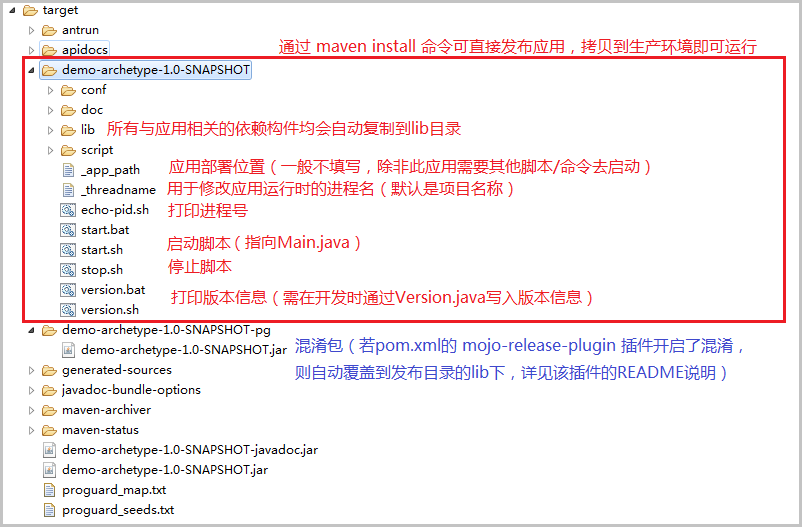
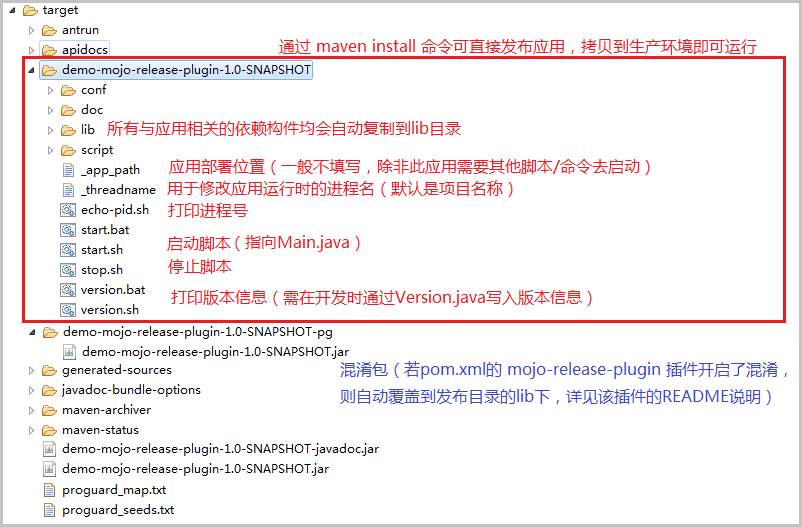
更新README

Changed region(s): [[0.0312, 0.6072, 0.9663, 0.7894], [0.0623, 0.8197, 0.4676, 0.9108], [0.1247, 0.1214, 0.4052, 0.1518]]

diff --git a/README.md b/README.md
@@ -90,9 +90,9 @@ Maven项目发布插件
 
 ## 运行效果
 
-> 点击 [这里](https://github-production-release-asset-2e65be.s3.amazonaws.com/148517307/80c29100-d2d2-11e8-88aa-212965139563?X-Amz-Algorithm=AWS4-HMAC-SHA256&X-Amz-Credential=AKIAIWNJYAX4CSVEH53A%2F20181018%2Fus-east-1%2Fs3%2Faws4_request&X-Amz-Date=20181018T071253Z&X-Amz-Expires=300&X-Amz-Signature=65f0ae903b69ba30b4a20d7530a66975bc7ef32db62958485a930f2308292e8d&X-Amz-SignedHeaders=host&actor_id=17040287&response-content-disposition=attachment%3B%20filename%3Ddemo-archetype.zip&response-content-type=application%2Foctet-stream) 下载演示项目`demo-archetype`
+> 点击 [这里](https://github-production-release-asset-2e65be.s3.amazonaws.com/148517007/597abc80-d2f0-11e8-9f44-732ddf618304?X-Amz-Algorithm=AWS4-HMAC-SHA256&X-Amz-Credential=AKIAIWNJYAX4CSVEH53A%2F20181018%2Fus-east-1%2Fs3%2Faws4_request&X-Amz-Date=20181018T081233Z&X-Amz-Expires=300&X-Amz-Signature=982daecdf1876e8bdb7490f13137d13dee5414ed02c22c31cde7776f28fedafd&X-Amz-SignedHeaders=host&actor_id=17040287&response-content-disposition=attachment%3B%20filename%3Ddemo-mojo-release-plugin.zip&response-content-type=application%2Foctet-stream) 下载演示项目`demo-mojo-release-plugin`
 
-　此处以演示项目`demo-archetype`为例查看本插件的运行效果。
+　此处以演示项目`demo-mojo-release-plugin`为例查看本插件的运行效果。
 
 <br/>　**发布应用后的应用结构：**
 
@@ -103,19 +103,19 @@ Maven项目发布插件
 - win环境启动脚本 start.bat ：<br/>
 ```shell
 @echo off
-title demo-archetype
+title demo-mojo-release-plugin
 
 set /p threadname=<.\_threadname
 set lib0=.\lib
 
-java -Dtn=%threadname% -Xms32m -Xmx64m  -cp %lib0%\demo-archetype.jar;%lib0%\exp-libs.jar;%lib0%\jvm-agent-1.0.jar;%lib0%\jep-3.3.1.jar;%lib0%\ehcache-2.9.1.jar;%lib0%\beauty-eye-3.7.jar;%lib0%\draw2d-1.0.0.jar;%lib0%\jGraph-1.0.0.jar;%lib0%\schemaeditor-1.0.0.jar;%lib0%\javase-2.2.jar;%lib0%\core-2.2.jar;%lib0%\dom4j-1.6.1.jar;%lib0%\javaini-1.1.0.0.jar;%lib0%\proxool-0.9.1.jar;%lib0%\proxool-cglib-0.9.1.jar;%lib0%\jedis-2.9.0.jar;%lib0%\commons-pool2-2.4.2.jar;%lib0%\mysql-connector-java-5.1.29.jar;%lib0%\sqlite-jdbc-3.7.2.jar;%lib0%\ojdbc-14.jar;%lib0%\poi-ooxml-3.9.jar;%lib0%\poi-3.9.jar;%lib0%\poi-ooxml-schemas-3.9.jar;%lib0%\dom4j-1.6.1.jar;%lib0%\quartz-2.2.1.jar;%lib0%\c3p0-0.9.1.1.jar;%lib0%\json-lib-2.4-jdk15.jar;%lib0%\commons-beanutils-1.8.0.jar;%lib0%\commons-collections-3.2.1.jar;%lib0%\commons-lang-2.5.jar;%lib0%\ezmorph-1.0.6.jar;%lib0%\jackson-xc-1.9.9.jar;%lib0%\jackson-core-asl-1.9.9.jar;%lib0%\jackson-mapper-asl-1.9.9.jar;%lib0%\jackson-smile-1.9.9.jar;%lib0%\jackson-mrbean-1.9.9.jar;%lib0%\jackson-jaxrs-1.9.9.jar;%lib0%\jackson-core-lgpl-1.9.9.jar;%lib0%\jackson-mapper-lgpl-1.9.9.jar;%lib0%\commons-httpclient-3.1-rc1.jar;%lib0%\commons-net-3.3.jar;%lib0%\bcprov-jdk15on-1.54.jar;%lib0%\base64-1.0.jar;%lib0%\jsch-0.1.29.jar;%lib0%\mail-1.4.1.jar;%lib0%\activation-1.1.1.jar;%lib0%\activemq-all-5.4.2.jar;%lib0%\commons-compress-1.8.1.jar;%lib0%\commons-dbutils-1.5.jar;%lib0%\commons-io-2.4.jar;%lib0%\commons-logging-1.1.3.jar;%lib0%\commons-lang3-3.3.jar;%lib0%\jai-imageio-1.1-alpha-alpha.jar;%lib0%\tensorflow-1.6.0-rc1.jar;%lib0%\libtensorflow-1.6.0-rc1.jar;%lib0%\libtensorflow_jni-1.6.0-rc1.jar;%lib0%\Java-WebSocket-1.3.4.jar;%lib0%\selenium-java-2.53.0.jar;%lib0%\selenium-support-2.53.0.jar;%lib0%\selenium-leg-rc-2.53.0.jar;%lib0%\phantomjsdriver-1.2.1.jar;%lib0%\selenium-remote-driver-2.44.0.jar;%lib0%\cglib-nodep-2.1_3.jar;%lib0%\gson-2.3.jar;%lib0%\selenium-api-2.44.0.jar;%lib0%\guava-18.0.jar;%lib0%\commons-exec-1.1.jar;%lib0%\jna-3.4.0.jar;%lib0%\platform-3.4.0.jar;%lib0%\selenium-chrome-driver-2.44.0.jar;%lib0%\selenium-htmlunit-driver-2.44.0.jar;%lib0%\htmlunit-2.15.jar;%lib0%\xalan-2.7.1.jar;%lib0%\serializer-2.7.1.jar;%lib0%\httpmime-4.3.3.jar;%lib0%\htmlunit-core-js-2.15.jar;%lib0%\xercesImpl-2.11.0.jar;%lib0%\xml-apis-1.4.01.jar;%lib0%\nekohtml-1.9.21.jar;%lib0%\cssparser-0.9.14.jar;%lib0%\sac-1.3.jar;%lib0%\jetty-websocket-8.1.15.v20140411.jar;%lib0%\jetty-util-8.1.15.v20140411.jar;%lib0%\jetty-io-8.1.15.v20140411.jar;%lib0%\httpclient-4.3.4.jar;%lib0%\wsdl4j-1.6.2.jar;%lib0%\jabref-2.9.2.jar;%lib0%\soapui-1.7.1.jar;%lib0%\xmlbeans-2.6.0.jar;%lib0%\stax-api-1.0.1.jar;%lib0%\soapui-xmlbeans-1.7.jar;%lib0%\commons-codec-1.8.jar;%lib0%\log4j-1.2.17.jar;%lib0%\axis2-adb-1.6.2.jar;%lib0%\axis2-kernel-1.6.2.jar;%lib0%\axiom-api-1.2.13.jar;%lib0%\wsdl4j-1.6.2.jar;%lib0%\neethi-3.0.2.jar;%lib0%\xmlschema-core-2.1.0.jar;%lib0%\axis2-transport-http-1.6.2.jar;%lib0%\httpcore-4.0.jar;%lib0%\axis2-transport-local-1.6.2.jar;%lib0%\cxf-rt-frontend-jaxws-3.0.1.jar;%lib0%\asm-3.3.1.jar;%lib0%\cxf-core-3.0.1.jar;%lib0%\woodstox-core-asl-4.4.0.jar;%lib0%\stax2-api-3.1.4.jar;%lib0%\cxf-rt-bindings-soap-3.0.1.jar;%lib0%\cxf-rt-wsdl-3.0.1.jar;%lib0%\cxf-rt-databinding-jaxb-3.0.1.jar;%lib0%\jaxb-core-2.1.14.jar;%lib0%\cxf-rt-frontend-simple-3.0.1.jar;%lib0%\cxf-rt-transports-http-3.0.1.jar;%lib0%\jetty-http-8.1.15.v20140411.jar;%lib0%\slf4j-api-1.7.5.jar;%lib0%\logback-core-1.0.13.jar;%lib0%\logback-classic-1.0.13.jar;%lib0%\logback-access-1.0.13.jar;%lib0%\janino-2.7.8.jar;%lib0%\commons-compiler-2.7.8.jar; exp.libs.pojo.Main   2>err.log
+java -Dtn=%threadname% -Xms32m -Xmx64m  -cp %lib0%\demo-mojo-release-plugin.jar;%lib0%\exp-libs-simple.jar;%lib0%\exp-libs.jar;%lib0%\beauty-eye-3.7.jar;%lib0%\javase-2.2.jar;%lib0%\core-2.2.jar;%lib0%\dom4j-1.6.1.jar;%lib0%\javaini-1.1.0.0.jar;%lib0%\proxool-0.9.1.jar;%lib0%\proxool-cglib-0.9.1.jar;%lib0%\sqlite-jdbc-3.7.2.jar;%lib0%\poi-ooxml-3.9.jar;%lib0%\poi-3.9.jar;%lib0%\poi-ooxml-schemas-3.9.jar;%lib0%\dom4j-1.6.1.jar;%lib0%\json-lib-2.4-jdk15.jar;%lib0%\commons-beanutils-1.8.0.jar;%lib0%\commons-collections-3.2.1.jar;%lib0%\commons-lang-2.5.jar;%lib0%\ezmorph-1.0.6.jar;%lib0%\jackson-xc-1.9.9.jar;%lib0%\jackson-core-asl-1.9.9.jar;%lib0%\jackson-mapper-asl-1.9.9.jar;%lib0%\jackson-smile-1.9.9.jar;%lib0%\jackson-mrbean-1.9.9.jar;%lib0%\jackson-jaxrs-1.9.9.jar;%lib0%\jackson-core-lgpl-1.9.9.jar;%lib0%\jackson-mapper-lgpl-1.9.9.jar;%lib0%\commons-httpclient-3.1-rc1.jar;%lib0%\commons-net-3.3.jar;%lib0%\bcprov-jdk15on-1.54.jar;%lib0%\base64-1.0.jar;%lib0%\commons-compress-1.8.1.jar;%lib0%\commons-dbutils-1.5.jar;%lib0%\commons-io-2.4.jar;%lib0%\commons-logging-1.1.3.jar;%lib0%\commons-lang3-3.3.jar;%lib0%\xmlbeans-2.6.0.jar;%lib0%\stax-api-1.0.1.jar;%lib0%\commons-codec-1.8.jar;%lib0%\log4j-1.2.17.jar;%lib0%\slf4j-api-1.7.5.jar;%lib0%\logback-core-1.0.13.jar;%lib0%\logback-classic-1.0.13.jar;%lib0%\logback-access-1.0.13.jar; exp.libs.pojo.Main   2>err.log
 pause
 ```
 
 - unix环境启动脚本 start.sh ：<br/>
 ```shell
 #!/bin/bash
-# demo-archetype
+# demo-mojo-release-plugin
 
 export app_path=$(cat ./_app_path|grep -v ^#)
 if [ $app_path ];then
@@ -127,7 +127,7 @@ export lib0=./lib
 
 PID=`ps -ef|grep Dtn=${threadname}|grep -v grep|awk '{print $2}'`
 if [ -z $PID ];then
-    java -Dtn=${threadname} -Xms32m -Xmx64m  -cp $lib0/demo-archetype.jar:$lib0/exp-libs.jar:$lib0/jvm-agent-1.0.jar:$lib0/jep-3.3.1.jar:$lib0/ehcache-2.9.1.jar:$lib0/beauty-eye-3.7.jar:$lib0/draw2d-1.0.0.jar:$lib0/jGraph-1.0.0.jar:$lib0/schemaeditor-1.0.0.jar:$lib0/javase-2.2.jar:$lib0/core-2.2.jar:$lib0/dom4j-1.6.1.jar:$lib0/javaini-1.1.0.0.jar:$lib0/proxool-0.9.1.jar:$lib0/proxool-cglib-0.9.1.jar:$lib0/jedis-2.9.0.jar:$lib0/commons-pool2-2.4.2.jar:$lib0/mysql-connector-java-5.1.29.jar:$lib0/sqlite-jdbc-3.7.2.jar:$lib0/ojdbc-14.jar:$lib0/poi-ooxml-3.9.jar:$lib0/poi-3.9.jar:$lib0/poi-ooxml-schemas-3.9.jar:$lib0/dom4j-1.6.1.jar:$lib0/quartz-2.2.1.jar:$lib0/c3p0-0.9.1.1.jar:$lib0/json-lib-2.4-jdk15.jar:$lib0/commons-beanutils-1.8.0.jar:$lib0/commons-collections-3.2.1.jar:$lib0/commons-lang-2.5.jar:$lib0/ezmorph-1.0.6.jar:$lib0/jackson-xc-1.9.9.jar:$lib0/jackson-core-asl-1.9.9.jar:$lib0/jackson-mapper-asl-1.9.9.jar:$lib0/jackson-smile-1.9.9.jar:$lib0/jackson-mrbean-1.9.9.jar:$lib0/jackson-jaxrs-1.9.9.jar:$lib0/jackson-core-lgpl-1.9.9.jar:$lib0/jackson-mapper-lgpl-1.9.9.jar:$lib0/commons-httpclient-3.1-rc1.jar:$lib0/commons-net-3.3.jar:$lib0/bcprov-jdk15on-1.54.jar:$lib0/base64-1.0.jar:$lib0/jsch-0.1.29.jar:$lib0/mail-1.4.1.jar:$lib0/activation-1.1.1.jar:$lib0/activemq-all-5.4.2.jar:$lib0/commons-compress-1.8.1.jar:$lib0/commons-dbutils-1.5.jar:$lib0/commons-io-2.4.jar:$lib0/commons-logging-1.1.3.jar:$lib0/commons-lang3-3.3.jar:$lib0/jai-imageio-1.1-alpha-alpha.jar:$lib0/tensorflow-1.6.0-rc1.jar:$lib0/libtensorflow-1.6.0-rc1.jar:$lib0/libtensorflow_jni-1.6.0-rc1.jar:$lib0/Java-WebSocket-1.3.4.jar:$lib0/selenium-java-2.53.0.jar:$lib0/selenium-support-2.53.0.jar:$lib0/selenium-leg-rc-2.53.0.jar:$lib0/phantomjsdriver-1.2.1.jar:$lib0/selenium-remote-driver-2.44.0.jar:$lib0/cglib-nodep-2.1_3.jar:$lib0/gson-2.3.jar:$lib0/selenium-api-2.44.0.jar:$lib0/guava-18.0.jar:$lib0/commons-exec-1.1.jar:$lib0/jna-3.4.0.jar:$lib0/platform-3.4.0.jar:$lib0/selenium-chrome-driver-2.44.0.jar:$lib0/selenium-htmlunit-driver-2.44.0.jar:$lib0/htmlunit-2.15.jar:$lib0/xalan-2.7.1.jar:$lib0/serializer-2.7.1.jar:$lib0/httpmime-4.3.3.jar:$lib0/htmlunit-core-js-2.15.jar:$lib0/xercesImpl-2.11.0.jar:$lib0/xml-apis-1.4.01.jar:$lib0/nekohtml-1.9.21.jar:$lib0/cssparser-0.9.14.jar:$lib0/sac-1.3.jar:$lib0/jetty-websocket-8.1.15.v20140411.jar:$lib0/jetty-util-8.1.15.v20140411.jar:$lib0/jetty-io-8.1.15.v20140411.jar:$lib0/httpclient-4.3.4.jar:$lib0/wsdl4j-1.6.2.jar:$lib0/jabref-2.9.2.jar:$lib0/soapui-1.7.1.jar:$lib0/xmlbeans-2.6.0.jar:$lib0/stax-api-1.0.1.jar:$lib0/soapui-xmlbeans-1.7.jar:$lib0/commons-codec-1.8.jar:$lib0/log4j-1.2.17.jar:$lib0/axis2-adb-1.6.2.jar:$lib0/axis2-kernel-1.6.2.jar:$lib0/axiom-api-1.2.13.jar:$lib0/wsdl4j-1.6.2.jar:$lib0/neethi-3.0.2.jar:$lib0/xmlschema-core-2.1.0.jar:$lib0/axis2-transport-http-1.6.2.jar:$lib0/httpcore-4.0.jar:$lib0/axis2-transport-local-1.6.2.jar:$lib0/cxf-rt-frontend-jaxws-3.0.1.jar:$lib0/asm-3.3.1.jar:$lib0/cxf-core-3.0.1.jar:$lib0/woodstox-core-asl-4.4.0.jar:$lib0/stax2-api-3.1.4.jar:$lib0/cxf-rt-bindings-soap-3.0.1.jar:$lib0/cxf-rt-wsdl-3.0.1.jar:$lib0/cxf-rt-databinding-jaxb-3.0.1.jar:$lib0/jaxb-core-2.1.14.jar:$lib0/cxf-rt-frontend-simple-3.0.1.jar:$lib0/cxf-rt-transports-http-3.0.1.jar:$lib0/jetty-http-8.1.15.v20140411.jar:$lib0/slf4j-api-1.7.5.jar:$lib0/logback-core-1.0.13.jar:$lib0/logback-classic-1.0.13.jar:$lib0/logback-access-1.0.13.jar:$lib0/janino-2.7.8.jar:$lib0/commons-compiler-2.7.8.jar: exp.libs.pojo.Main  >/dev/null 2>err.log &
+    java -Dtn=${threadname} -Xms32m -Xmx64m  -cp $lib0/demo-mojo-release-plugin.jar:$lib0/exp-libs-simple.jar:$lib0/exp-libs.jar:$lib0/beauty-eye-3.7.jar:$lib0/javase-2.2.jar:$lib0/core-2.2.jar:$lib0/dom4j-1.6.1.jar:$lib0/javaini-1.1.0.0.jar:$lib0/proxool-0.9.1.jar:$lib0/proxool-cglib-0.9.1.jar:$lib0/sqlite-jdbc-3.7.2.jar:$lib0/poi-ooxml-3.9.jar:$lib0/poi-3.9.jar:$lib0/poi-ooxml-schemas-3.9.jar:$lib0/dom4j-1.6.1.jar:$lib0/json-lib-2.4-jdk15.jar:$lib0/commons-beanutils-1.8.0.jar:$lib0/commons-collections-3.2.1.jar:$lib0/commons-lang-2.5.jar:$lib0/ezmorph-1.0.6.jar:$lib0/jackson-xc-1.9.9.jar:$lib0/jackson-core-asl-1.9.9.jar:$lib0/jackson-mapper-asl-1.9.9.jar:$lib0/jackson-smile-1.9.9.jar:$lib0/jackson-mrbean-1.9.9.jar:$lib0/jackson-jaxrs-1.9.9.jar:$lib0/jackson-core-lgpl-1.9.9.jar:$lib0/jackson-mapper-lgpl-1.9.9.jar:$lib0/commons-httpclient-3.1-rc1.jar:$lib0/commons-net-3.3.jar:$lib0/bcprov-jdk15on-1.54.jar:$lib0/base64-1.0.jar:$lib0/commons-compress-1.8.1.jar:$lib0/commons-dbutils-1.5.jar:$lib0/commons-io-2.4.jar:$lib0/commons-logging-1.1.3.jar:$lib0/commons-lang3-3.3.jar:$lib0/xmlbeans-2.6.0.jar:$lib0/stax-api-1.0.1.jar:$lib0/commons-codec-1.8.jar:$lib0/log4j-1.2.17.jar:$lib0/slf4j-api-1.7.5.jar:$lib0/logback-core-1.0.13.jar:$lib0/logback-classic-1.0.13.jar:$lib0/logback-access-1.0.13.jar: exp.libs.pojo.Main  >/dev/null 2>err.log &
 else
     echo "The program $threadname has been running.Please stop it firstly."
 fi
@@ -136,7 +136,7 @@ fi
 - unix环境停止脚本 stop.sh ：<br/>
 ```shell
 #!/bin/bash
-# demo-archetype
+# demo-mojo-release-plugin
 
 export app_path=$(cat ./_app_path|grep -v ^#)
 if [ $app_path ];then
@@ -163,7 +163,7 @@ fi
 - unix环境线程号查看脚本 echo-pid.sh ：<br/>
 ```shell
 #!/bin/bash
-# demo-archetype
+# demo-mojo-release-plugin
 
 export app_path=$(cat ./_app_path|grep -v ^#)
 if [ $app_path ];then
@@ -182,19 +182,19 @@ fi
 - win环境版本查看脚本 version.bat ：<br/>
 ```shell
 @echo off
-title demo-archetype
+title demo-mojo-release-plugin
 
 set /p threadname=<.\_threadname
 set lib0=.\lib
 
-java -Dtn=%threadname% -Xms32m -Xmx64m  -cp %lib0%\demo-archetype.jar;%lib0%\exp-libs.jar;%lib0%\jvm-agent-1.0.jar;%lib0%\jep-3.3.1.jar;%lib0%\ehcache-2.9.1.jar;%lib0%\beauty-eye-3.7.jar;%lib0%\draw2d-1.0.0.jar;%lib0%\jGraph-1.0.0.jar;%lib0%\schemaeditor-1.0.0.jar;%lib0%\javase-2.2.jar;%lib0%\core-2.2.jar;%lib0%\dom4j-1.6.1.jar;%lib0%\javaini-1.1.0.0.jar;%lib0%\proxool-0.9.1.jar;%lib0%\proxool-cglib-0.9.1.jar;%lib0%\jedis-2.9.0.jar;%lib0%\commons-pool2-2.4.2.jar;%lib0%\mysql-connector-java-5.1.29.jar;%lib0%\sqlite-jdbc-3.7.2.jar;%lib0%\ojdbc-14.jar;%lib0%\poi-ooxml-3.9.jar;%lib0%\poi-3.9.jar;%lib0%\poi-ooxml-schemas-3.9.jar;%lib0%\dom4j-1.6.1.jar;%lib0%\quartz-2.2.1.jar;%lib0%\c3p0-0.9.1.1.jar;%lib0%\json-lib-2.4-jdk15.jar;%lib0%\commons-beanutils-1.8.0.jar;%lib0%\commons-collections-3.2.1.jar;%lib0%\commons-lang-2.5.jar;%lib0%\ezmorph-1.0.6.jar;%lib0%\jackson-xc-1.9.9.jar;%lib0%\jackson-core-asl-1.9.9.jar;%lib0%\jackson-mapper-asl-1.9.9.jar;%lib0%\jackson-smile-1.9.9.jar;%lib0%\jackson-mrbean-1.9.9.jar;%lib0%\jackson-jaxrs-1.9.9.jar;%lib0%\jackson-core-lgpl-1.9.9.jar;%lib0%\jackson-mapper-lgpl-1.9.9.jar;%lib0%\commons-httpclient-3.1-rc1.jar;%lib0%\commons-net-3.3.jar;%lib0%\bcprov-jdk15on-1.54.jar;%lib0%\base64-1.0.jar;%lib0%\jsch-0.1.29.jar;%lib0%\mail-1.4.1.jar;%lib0%\activation-1.1.1.jar;%lib0%\activemq-all-5.4.2.jar;%lib0%\commons-compress-1.8.1.jar;%lib0%\commons-dbutils-1.5.jar;%lib0%\commons-io-2.4.jar;%lib0%\commons-logging-1.1.3.jar;%lib0%\commons-lang3-3.3.jar;%lib0%\jai-imageio-1.1-alpha-alpha.jar;%lib0%\tensorflow-1.6.0-rc1.jar;%lib0%\libtensorflow-1.6.0-rc1.jar;%lib0%\libtensorflow_jni-1.6.0-rc1.jar;%lib0%\Java-WebSocket-1.3.4.jar;%lib0%\selenium-java-2.53.0.jar;%lib0%\selenium-support-2.53.0.jar;%lib0%\selenium-leg-rc-2.53.0.jar;%lib0%\phantomjsdriver-1.2.1.jar;%lib0%\selenium-remote-driver-2.44.0.jar;%lib0%\cglib-nodep-2.1_3.jar;%lib0%\gson-2.3.jar;%lib0%\selenium-api-2.44.0.jar;%lib0%\guava-18.0.jar;%lib0%\commons-exec-1.1.jar;%lib0%\jna-3.4.0.jar;%lib0%\platform-3.4.0.jar;%lib0%\selenium-chrome-driver-2.44.0.jar;%lib0%\selenium-htmlunit-driver-2.44.0.jar;%lib0%\htmlunit-2.15.jar;%lib0%\xalan-2.7.1.jar;%lib0%\serializer-2.7.1.jar;%lib0%\httpmime-4.3.3.jar;%lib0%\htmlunit-core-js-2.15.jar;%lib0%\xercesImpl-2.11.0.jar;%lib0%\xml-apis-1.4.01.jar;%lib0%\nekohtml-1.9.21.jar;%lib0%\cssparser-0.9.14.jar;%lib0%\sac-1.3.jar;%lib0%\jetty-websocket-8.1.15.v20140411.jar;%lib0%\jetty-util-8.1.15.v20140411.jar;%lib0%\jetty-io-8.1.15.v20140411.jar;%lib0%\httpclient-4.3.4.jar;%lib0%\wsdl4j-1.6.2.jar;%lib0%\jabref-2.9.2.jar;%lib0%\soapui-1.7.1.jar;%lib0%\xmlbeans-2.6.0.jar;%lib0%\stax-api-1.0.1.jar;%lib0%\soapui-xmlbeans-1.7.jar;%lib0%\commons-codec-1.8.jar;%lib0%\log4j-1.2.17.jar;%lib0%\axis2-adb-1.6.2.jar;%lib0%\axis2-kernel-1.6.2.jar;%lib0%\axiom-api-1.2.13.jar;%lib0%\wsdl4j-1.6.2.jar;%lib0%\neethi-3.0.2.jar;%lib0%\xmlschema-core-2.1.0.jar;%lib0%\axis2-transport-http-1.6.2.jar;%lib0%\httpcore-4.0.jar;%lib0%\axis2-transport-local-1.6.2.jar;%lib0%\cxf-rt-frontend-jaxws-3.0.1.jar;%lib0%\asm-3.3.1.jar;%lib0%\cxf-core-3.0.1.jar;%lib0%\woodstox-core-asl-4.4.0.jar;%lib0%\stax2-api-3.1.4.jar;%lib0%\cxf-rt-bindings-soap-3.0.1.jar;%lib0%\cxf-rt-wsdl-3.0.1.jar;%lib0%\cxf-rt-databinding-jaxb-3.0.1.jar;%lib0%\jaxb-core-2.1.14.jar;%lib0%\cxf-rt-frontend-simple-3.0.1.jar;%lib0%\cxf-rt-transports-http-3.0.1.jar;%lib0%\jetty-http-8.1.15.v20140411.jar;%lib0%\slf4j-api-1.7.5.jar;%lib0%\logback-core-1.0.13.jar;%lib0%\logback-classic-1.0.13.jar;%lib0%\logback-access-1.0.13.jar;%lib0%\janino-2.7.8.jar;%lib0%\commons-compiler-2.7.8.jar; exp.libs.pojo.Version -p  2>err.log
+java -Dtn=%threadname% -Xms32m -Xmx64m  -cp %lib0%\demo-mojo-release-plugin.jar;%lib0%\exp-libs-simple.jar;%lib0%\exp-libs.jar;%lib0%\beauty-eye-3.7.jar;%lib0%\javase-2.2.jar;%lib0%\core-2.2.jar;%lib0%\dom4j-1.6.1.jar;%lib0%\javaini-1.1.0.0.jar;%lib0%\proxool-0.9.1.jar;%lib0%\proxool-cglib-0.9.1.jar;%lib0%\sqlite-jdbc-3.7.2.jar;%lib0%\poi-ooxml-3.9.jar;%lib0%\poi-3.9.jar;%lib0%\poi-ooxml-schemas-3.9.jar;%lib0%\dom4j-1.6.1.jar;%lib0%\json-lib-2.4-jdk15.jar;%lib0%\commons-beanutils-1.8.0.jar;%lib0%\commons-collections-3.2.1.jar;%lib0%\commons-lang-2.5.jar;%lib0%\ezmorph-1.0.6.jar;%lib0%\jackson-xc-1.9.9.jar;%lib0%\jackson-core-asl-1.9.9.jar;%lib0%\jackson-mapper-asl-1.9.9.jar;%lib0%\jackson-smile-1.9.9.jar;%lib0%\jackson-mrbean-1.9.9.jar;%lib0%\jackson-jaxrs-1.9.9.jar;%lib0%\jackson-core-lgpl-1.9.9.jar;%lib0%\jackson-mapper-lgpl-1.9.9.jar;%lib0%\commons-httpclient-3.1-rc1.jar;%lib0%\commons-net-3.3.jar;%lib0%\bcprov-jdk15on-1.54.jar;%lib0%\base64-1.0.jar;%lib0%\commons-compress-1.8.1.jar;%lib0%\commons-dbutils-1.5.jar;%lib0%\commons-io-2.4.jar;%lib0%\commons-logging-1.1.3.jar;%lib0%\commons-lang3-3.3.jar;%lib0%\xmlbeans-2.6.0.jar;%lib0%\stax-api-1.0.1.jar;%lib0%\commons-codec-1.8.jar;%lib0%\log4j-1.2.17.jar;%lib0%\slf4j-api-1.7.5.jar;%lib0%\logback-core-1.0.13.jar;%lib0%\logback-classic-1.0.13.jar;%lib0%\logback-access-1.0.13.jar; exp.libs.pojo.Version -p  2>err.log
 pause
 ```
 
 - unix环境版本查看脚本 version.sh ：<br/>
 ```shell
 #!/bin/bash
-# demo-archetype
+# demo-mojo-release-plugin
 
 export app_path=$(cat ./_app_path|grep -v ^#)
 if [ $app_path ];then
@@ -206,7 +206,7 @@ export lib0=./lib
 
 PID=`ps -ef|grep Dtn=ver-${threadname}|grep -v grep|awk '{print $2}'`
 if [ -z $PID ];then
-    java -Dtn=ver-${threadname} -Xms32m -Xmx64m  -cp $lib0/demo-archetype.jar:$lib0/exp-libs.jar:$lib0/jvm-agent-1.0.jar:$lib0/jep-3.3.1.jar:$lib0/ehcache-2.9.1.jar:$lib0/beauty-eye-3.7.jar:$lib0/draw2d-1.0.0.jar:$lib0/jGraph-1.0.0.jar:$lib0/schemaeditor-1.0.0.jar:$lib0/javase-2.2.jar:$lib0/core-2.2.jar:$lib0/dom4j-1.6.1.jar:$lib0/javaini-1.1.0.0.jar:$lib0/proxool-0.9.1.jar:$lib0/proxool-cglib-0.9.1.jar:$lib0/jedis-2.9.0.jar:$lib0/commons-pool2-2.4.2.jar:$lib0/mysql-connector-java-5.1.29.jar:$lib0/sqlite-jdbc-3.7.2.jar:$lib0/ojdbc-14.jar:$lib0/poi-ooxml-3.9.jar:$lib0/poi-3.9.jar:$lib0/poi-ooxml-schemas-3.9.jar:$lib0/dom4j-1.6.1.jar:$lib0/quartz-2.2.1.jar:$lib0/c3p0-0.9.1.1.jar:$lib0/json-lib-2.4-jdk15.jar:$lib0/commons-beanutils-1.8.0.jar:$lib0/commons-collections-3.2.1.jar:$lib0/commons-lang-2.5.jar:$lib0/ezmorph-1.0.6.jar:$lib0/jackson-xc-1.9.9.jar:$lib0/jackson-core-asl-1.9.9.jar:$lib0/jackson-mapper-asl-1.9.9.jar:$lib0/jackson-smile-1.9.9.jar:$lib0/jackson-mrbean-1.9.9.jar:$lib0/jackson-jaxrs-1.9.9.jar:$lib0/jackson-core-lgpl-1.9.9.jar:$lib0/jackson-mapper-lgpl-1.9.9.jar:$lib0/commons-httpclient-3.1-rc1.jar:$lib0/commons-net-3.3.jar:$lib0/bcprov-jdk15on-1.54.jar:$lib0/base64-1.0.jar:$lib0/jsch-0.1.29.jar:$lib0/mail-1.4.1.jar:$lib0/activation-1.1.1.jar:$lib0/activemq-all-5.4.2.jar:$lib0/commons-compress-1.8.1.jar:$lib0/commons-dbutils-1.5.jar:$lib0/commons-io-2.4.jar:$lib0/commons-logging-1.1.3.jar:$lib0/commons-lang3-3.3.jar:$lib0/jai-imageio-1.1-alpha-alpha.jar:$lib0/tensorflow-1.6.0-rc1.jar:$lib0/libtensorflow-1.6.0-rc1.jar:$lib0/libtensorflow_jni-1.6.0-rc1.jar:$lib0/Java-WebSocket-1.3.4.jar:$lib0/selenium-java-2.53.0.jar:$lib0/selenium-support-2.53.0.jar:$lib0/selenium-leg-rc-2.53.0.jar:$lib0/phantomjsdriver-1.2.1.jar:$lib0/selenium-remote-driver-2.44.0.jar:$lib0/cglib-nodep-2.1_3.jar:$lib0/gson-2.3.jar:$lib0/selenium-api-2.44.0.jar:$lib0/guava-18.0.jar:$lib0/commons-exec-1.1.jar:$lib0/jna-3.4.0.jar:$lib0/platform-3.4.0.jar:$lib0/selenium-chrome-driver-2.44.0.jar:$lib0/selenium-htmlunit-driver-2.44.0.jar:$lib0/htmlunit-2.15.jar:$lib0/xalan-2.7.1.jar:$lib0/serializer-2.7.1.jar:$lib0/httpmime-4.3.3.jar:$lib0/htmlunit-core-js-2.15.jar:$lib0/xercesImpl-2.11.0.jar:$lib0/xml-apis-1.4.01.jar:$lib0/nekohtml-1.9.21.jar:$lib0/cssparser-0.9.14.jar:$lib0/sac-1.3.jar:$lib0/jetty-websocket-8.1.15.v20140411.jar:$lib0/jetty-util-8.1.15.v20140411.jar:$lib0/jetty-io-8.1.15.v20140411.jar:$lib0/httpclient-4.3.4.jar:$lib0/wsdl4j-1.6.2.jar:$lib0/jabref-2.9.2.jar:$lib0/soapui-1.7.1.jar:$lib0/xmlbeans-2.6.0.jar:$lib0/stax-api-1.0.1.jar:$lib0/soapui-xmlbeans-1.7.jar:$lib0/commons-codec-1.8.jar:$lib0/log4j-1.2.17.jar:$lib0/axis2-adb-1.6.2.jar:$lib0/axis2-kernel-1.6.2.jar:$lib0/axiom-api-1.2.13.jar:$lib0/wsdl4j-1.6.2.jar:$lib0/neethi-3.0.2.jar:$lib0/xmlschema-core-2.1.0.jar:$lib0/axis2-transport-http-1.6.2.jar:$lib0/httpcore-4.0.jar:$lib0/axis2-transport-local-1.6.2.jar:$lib0/cxf-rt-frontend-jaxws-3.0.1.jar:$lib0/asm-3.3.1.jar:$lib0/cxf-core-3.0.1.jar:$lib0/woodstox-core-asl-4.4.0.jar:$lib0/stax2-api-3.1.4.jar:$lib0/cxf-rt-bindings-soap-3.0.1.jar:$lib0/cxf-rt-wsdl-3.0.1.jar:$lib0/cxf-rt-databinding-jaxb-3.0.1.jar:$lib0/jaxb-core-2.1.14.jar:$lib0/cxf-rt-frontend-simple-3.0.1.jar:$lib0/cxf-rt-transports-http-3.0.1.jar:$lib0/jetty-http-8.1.15.v20140411.jar:$lib0/slf4j-api-1.7.5.jar:$lib0/logback-core-1.0.13.jar:$lib0/logback-classic-1.0.13.jar:$lib0/logback-access-1.0.13.jar:$lib0/janino-2.7.8.jar:$lib0/commons-compiler-2.7.8.jar: exp.libs.pojo.Version -p  2>err.log 
+    java -Dtn=ver-${threadname} -Xms32m -Xmx64m  -cp $lib0/demo-mojo-release-plugin.jar:$lib0/exp-libs-simple.jar:$lib0/exp-libs.jar:$lib0/beauty-eye-3.7.jar:$lib0/javase-2.2.jar:$lib0/core-2.2.jar:$lib0/dom4j-1.6.1.jar:$lib0/javaini-1.1.0.0.jar:$lib0/proxool-0.9.1.jar:$lib0/proxool-cglib-0.9.1.jar:$lib0/sqlite-jdbc-3.7.2.jar:$lib0/poi-ooxml-3.9.jar:$lib0/poi-3.9.jar:$lib0/poi-ooxml-schemas-3.9.jar:$lib0/dom4j-1.6.1.jar:$lib0/json-lib-2.4-jdk15.jar:$lib0/commons-beanutils-1.8.0.jar:$lib0/commons-collections-3.2.1.jar:$lib0/commons-lang-2.5.jar:$lib0/ezmorph-1.0.6.jar:$lib0/jackson-xc-1.9.9.jar:$lib0/jackson-core-asl-1.9.9.jar:$lib0/jackson-mapper-asl-1.9.9.jar:$lib0/jackson-smile-1.9.9.jar:$lib0/jackson-mrbean-1.9.9.jar:$lib0/jackson-jaxrs-1.9.9.jar:$lib0/jackson-core-lgpl-1.9.9.jar:$lib0/jackson-mapper-lgpl-1.9.9.jar:$lib0/commons-httpclient-3.1-rc1.jar:$lib0/commons-net-3.3.jar:$lib0/bcprov-jdk15on-1.54.jar:$lib0/base64-1.0.jar:$lib0/commons-compress-1.8.1.jar:$lib0/commons-dbutils-1.5.jar:$lib0/commons-io-2.4.jar:$lib0/commons-logging-1.1.3.jar:$lib0/commons-lang3-3.3.jar:$lib0/xmlbeans-2.6.0.jar:$lib0/stax-api-1.0.1.jar:$lib0/commons-codec-1.8.jar:$lib0/log4j-1.2.17.jar:$lib0/slf4j-api-1.7.5.jar:$lib0/logback-core-1.0.13.jar:$lib0/logback-classic-1.0.13.jar:$lib0/logback-access-1.0.13.jar: exp.libs.pojo.Version -p  2>err.log 
 else
     echo "The program ver-$threadname has been running.Please stop it firstly."
 fi
